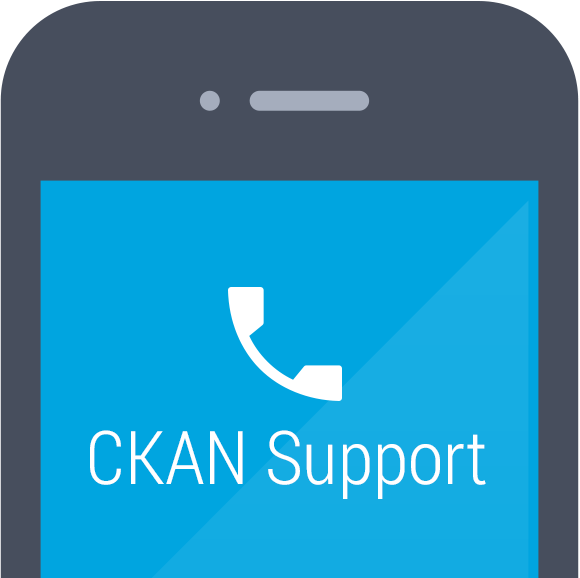
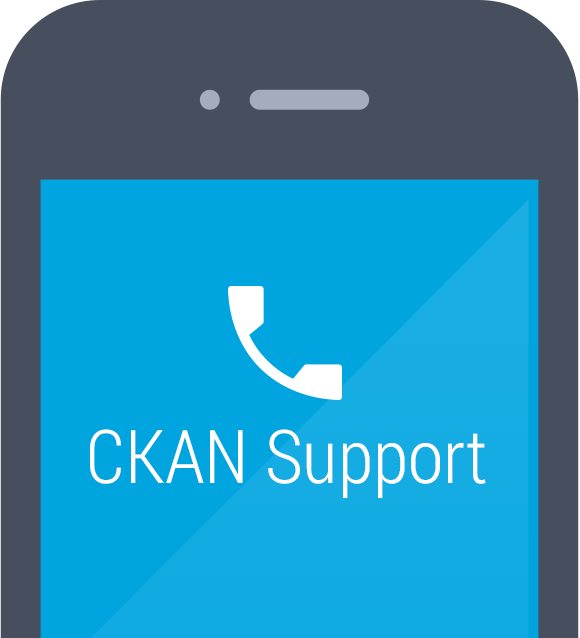
services tweaking

diff --git a/css/main.scss b/css/main.scss
@@ -383,23 +383,27 @@ div.support {
       background-color:lighten( #474E5D, 10% );
       color:#fff;
       figure {
-        height:315px;
+        height:329px;
         overflow:visible;
         
         img {
           position:absolute;
           left:50%;
-          bottom:-315px;
-          margin-left:-30px;
+          bottom:- $base-spacing;
+          margin-left:-145px;
           
           .js & {
-            margin-left:-145px;
+            bottom:-315px;
           }
           
           &.animated {
-            bottom:- 30px;
+            bottom:- $base-spacing;
           }
         }
+      }
+      
+      figcaption {
+        padding-bottom:0;
       }
     }
     

diff --git a/js/main.js b/js/main.js
@@ -171,7 +171,7 @@ $(document).ready(function() {
   $('.js-accordion-trigger').bind('click', function(e){
     jQuery(this).parents('.action').find('aside').slideToggle('fast'); 
 
-    jQuery(this).parents('.action').toggleClass('is-expanded');
+    jQuery(this).parents('.action').toggleClass('js-expanded');
     e.preventDefault();
   });
   
@@ -187,7 +187,7 @@ $(document).ready(function() {
   },
   { offset: 'bottom-in-view' });
   
-  $('.js-accordion-trigger').bind('click', function(e){
+  $('div.training .js-accordion-trigger').bind('click', function(e){
     jQuery(this).parents('section').find('aside').slideToggle('fast'); 
     e.preventDefault();
   });
